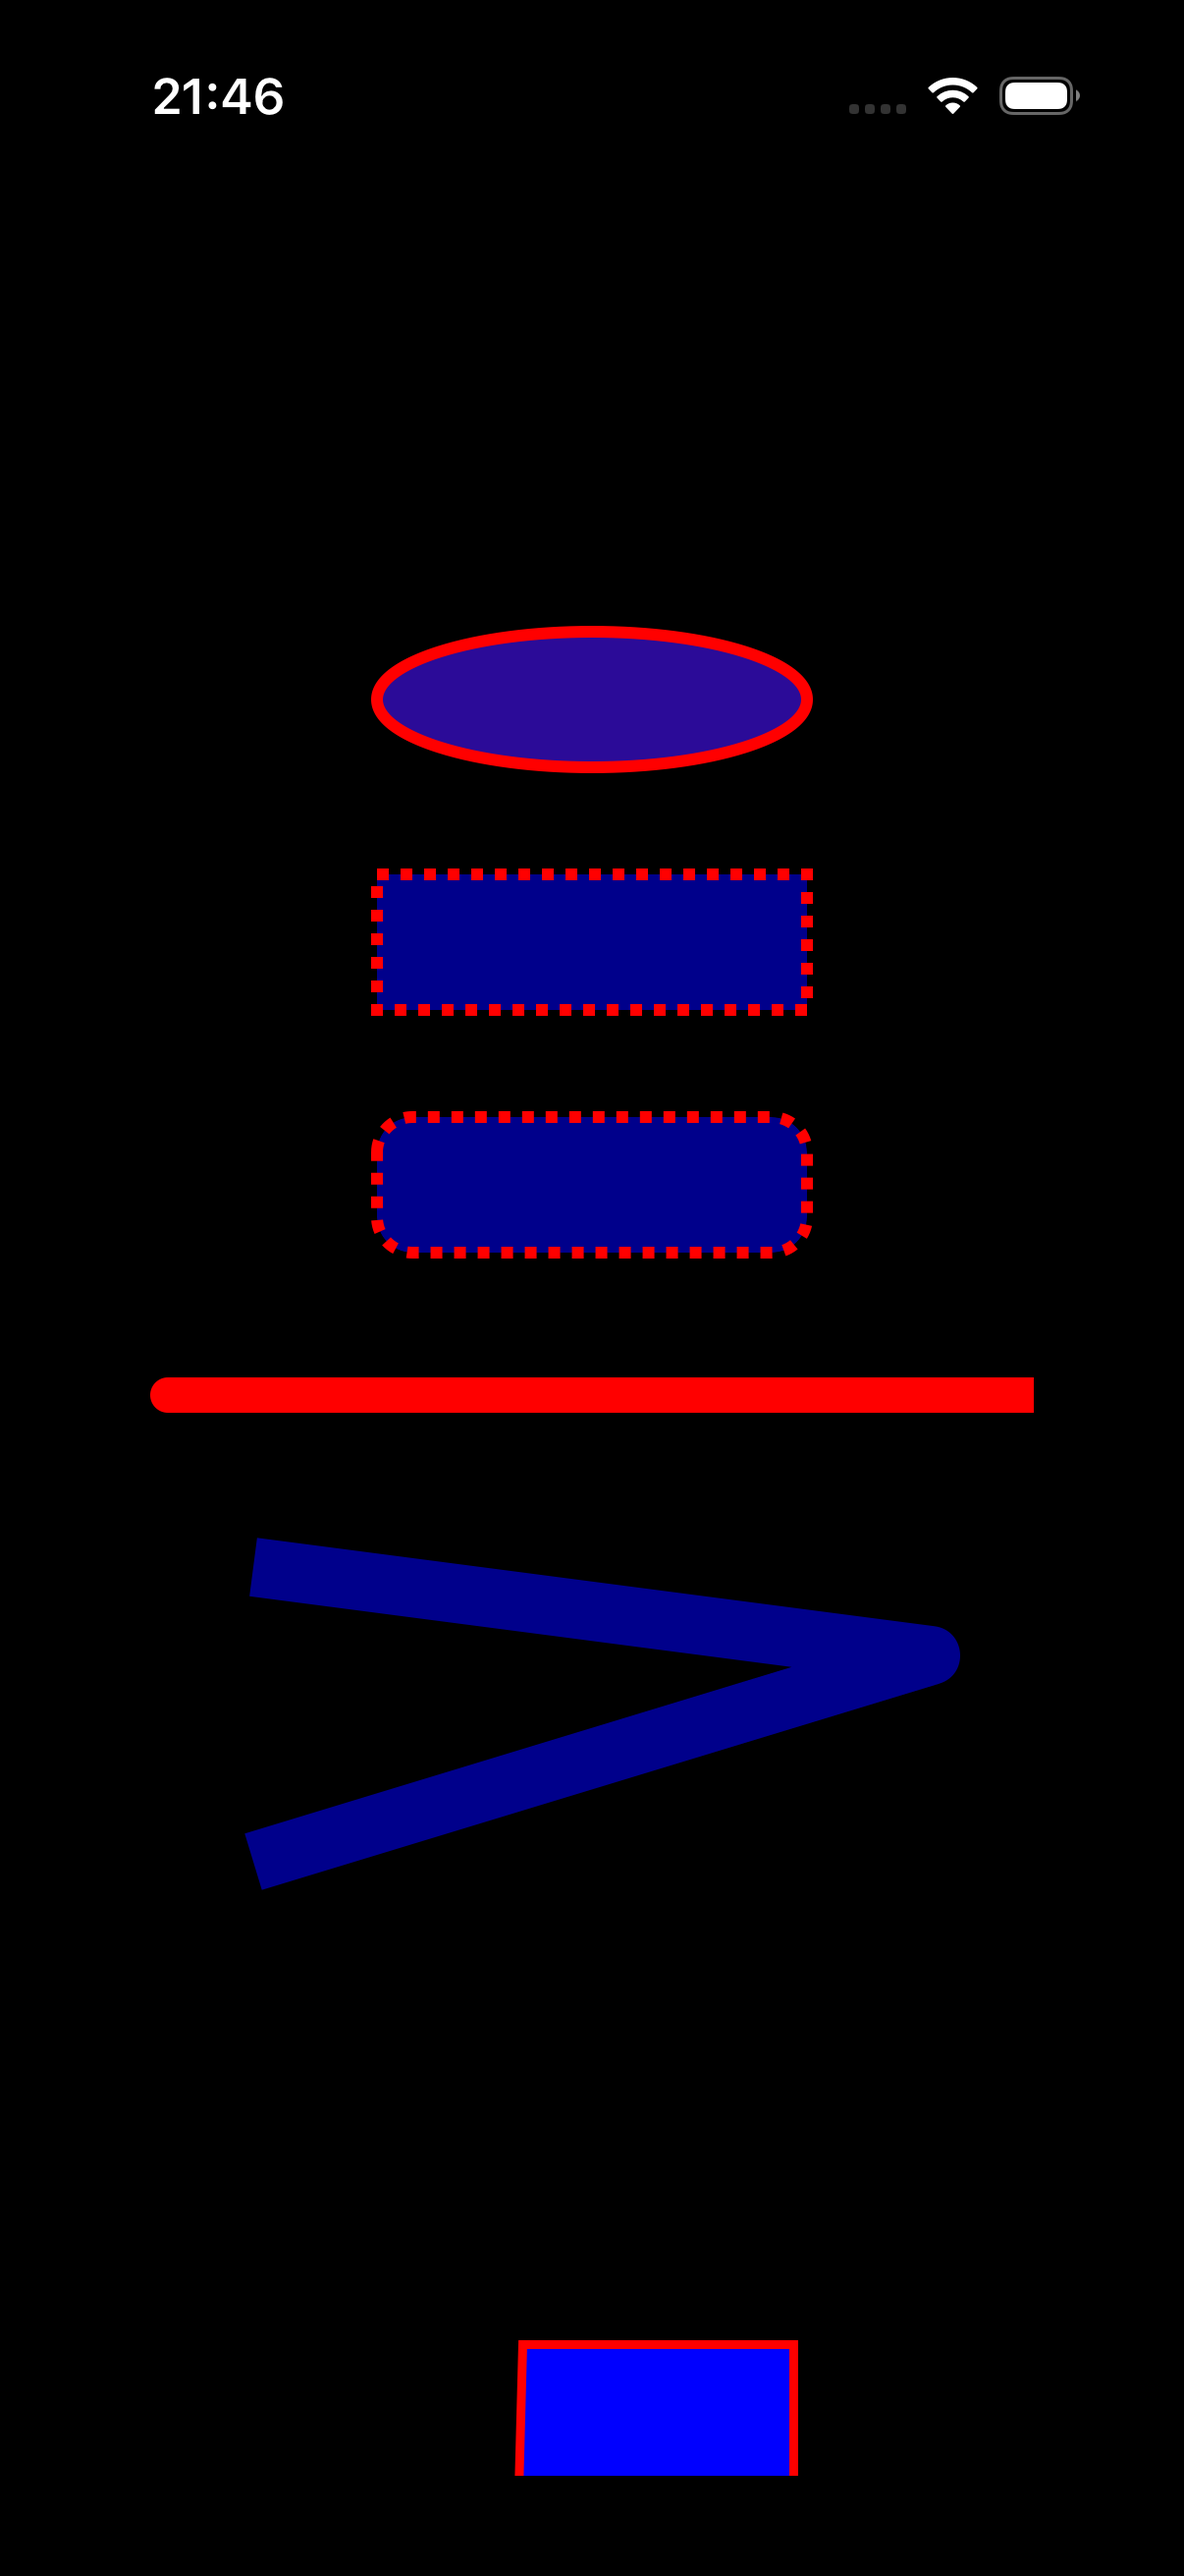
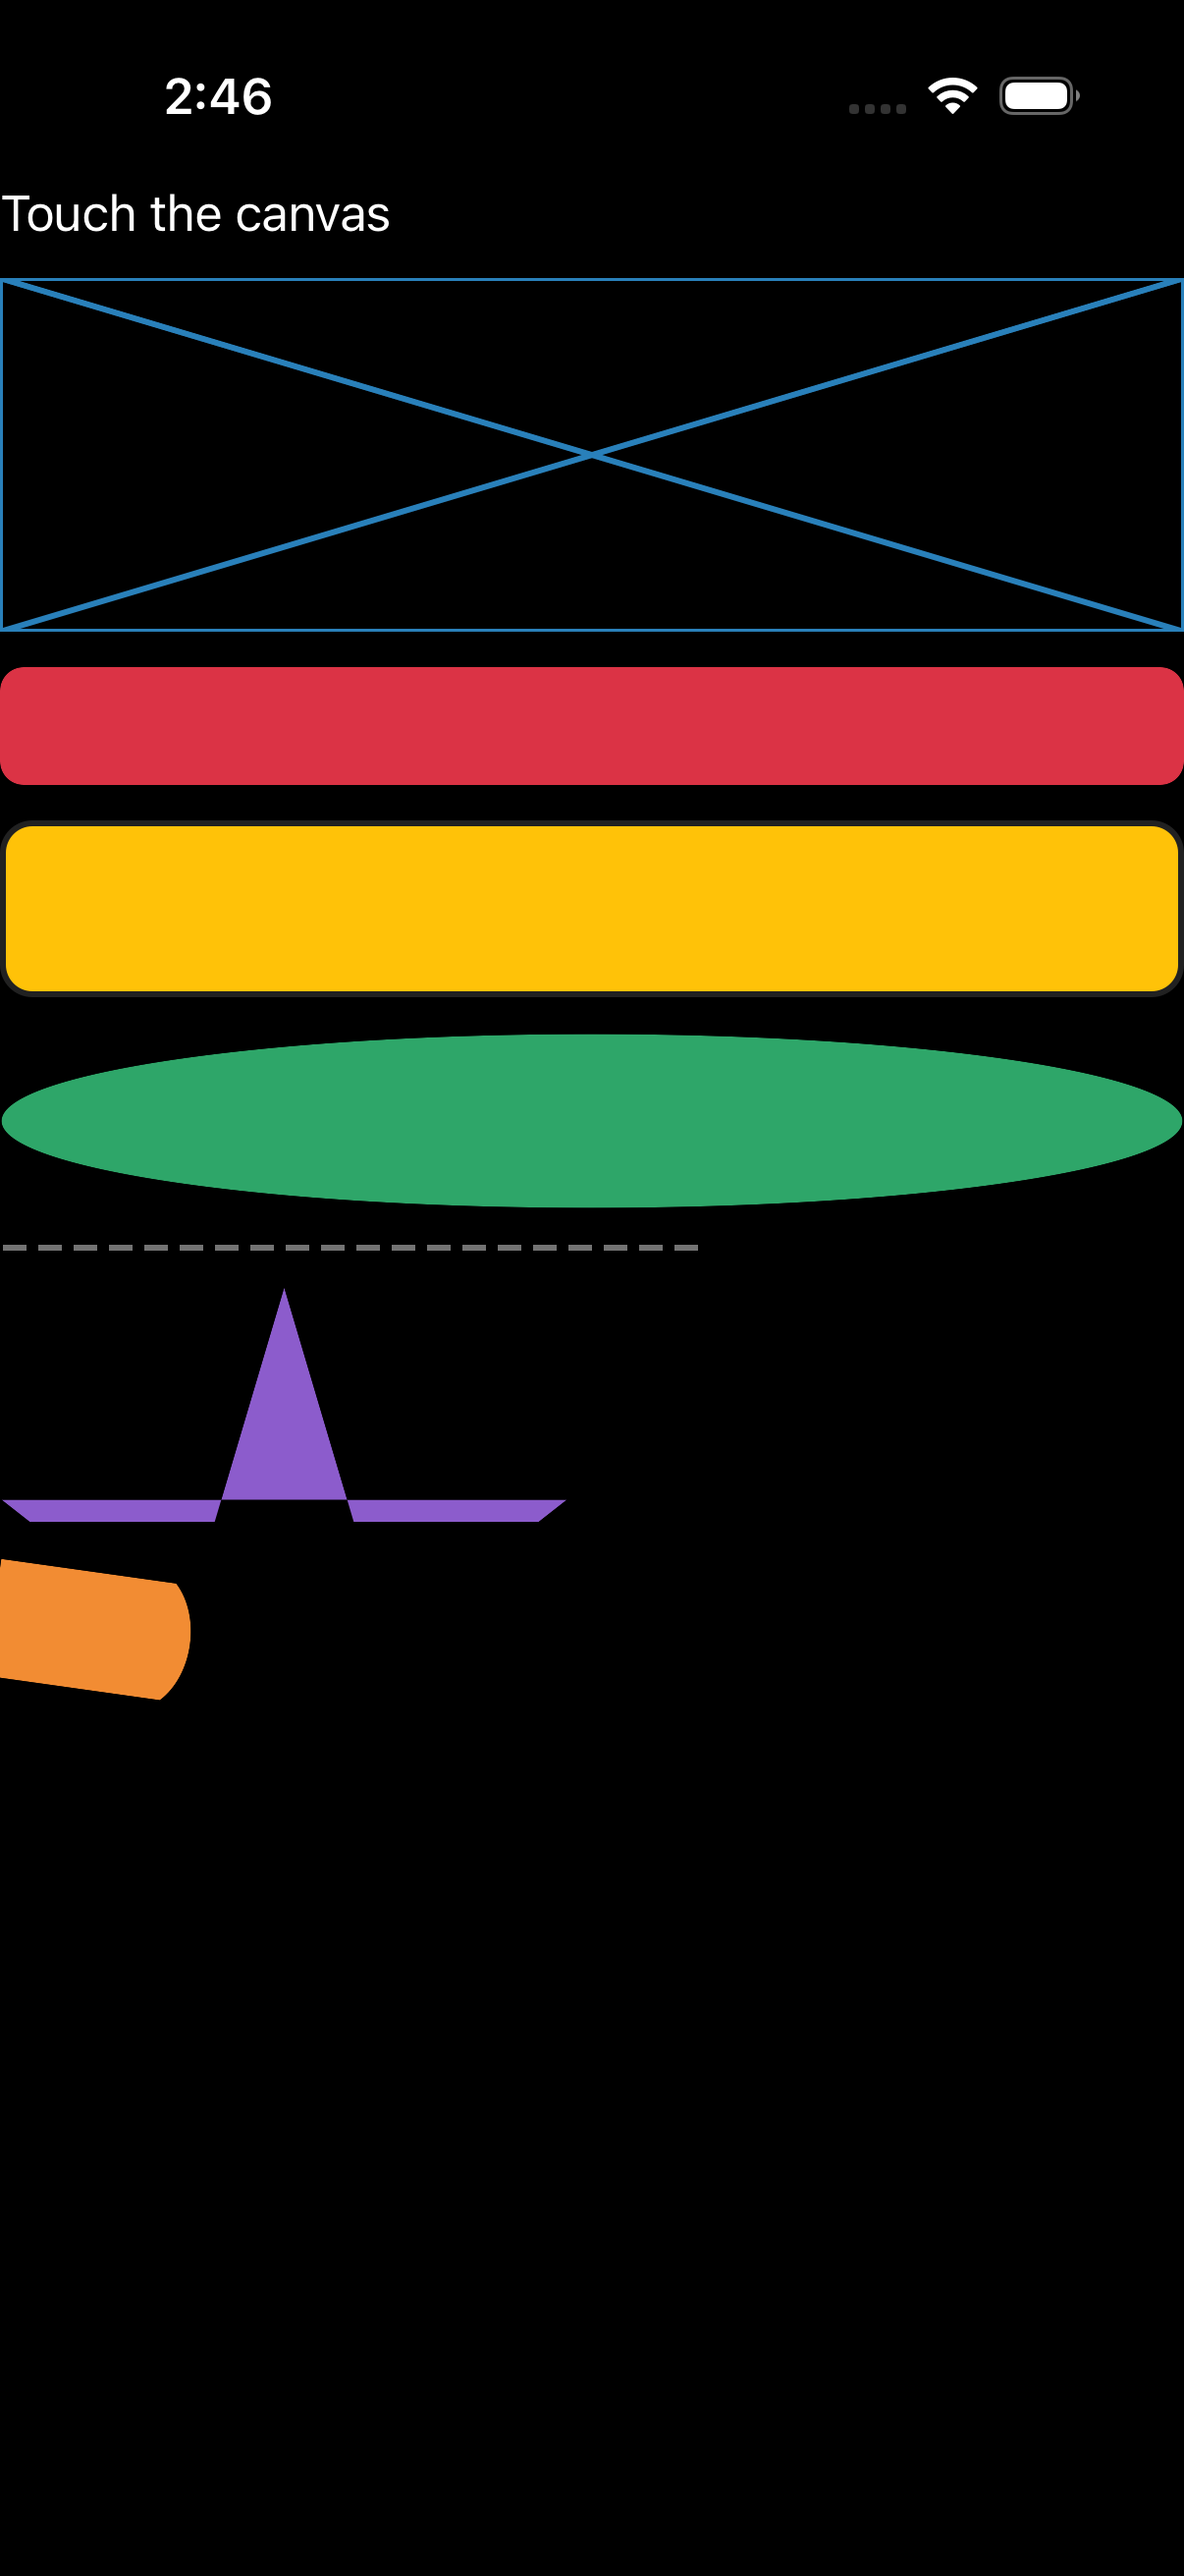
docs(parity): #41 shapes — minor (demo divergence)
Both apps render shapes with different demo content: the C++ shapes_page
shows its own showcase (touch-canvas heading + outlined rect w/diagonals,
red/yellow rounded bars, green ellipse, dashed line, purple polygon,
orange rotated rect) — all shape types render correctly (fill/stroke/
dash/rotation), heading theme-aware. The maui-compare reference uses a
labeled Ellipse/RoundRectangle/Polygon/Line set. Tracker -> minor L/D.

diff --git a/port/cpp/docs/comparison/README.md b/port/cpp/docs/comparison/README.md
@@ -2,7 +2,7 @@
 
 Theme-matched iOS comparison: each page rendered by **real .NET MAUI** vs the **C++ port**, on the same iPhone 17 simulator, compared **light-vs-light** and **dark-vs-dark**. Both stacks render native-default controls + the system font (the C# app's `dotnet new maui` default `Styles.xaml` + OpenSans are stripped; appearance forced via `MAUI_THEME` / `MAUI_APPEARANCE`). Goal: pixel-perfect parity, fixed example-by-example.
 
-**Progress: 0 / 172 🟢 matched** · 37 🟡 minor · 46 🔴 diff · 89 ⬜ pending
+**Progress: 0 / 172 🟢 matched** · 38 🟡 minor · 45 🔴 diff · 89 ⬜ pending
 
 Status legend: 🟢 pixel-match (both themes) · 🟡 minor diff · 🔴 notable diff to fix · ⬜ not yet reviewed. Per-theme verdicts in `parity_status.json`.
 
@@ -52,7 +52,7 @@ Rows are in **fix order** (top → bottom): foundational single controls first (
 | 38 | Layout alignment (Start/Center/End/Fill) | 🟡<br>L:minor<br>D:minor | ![](csharp_ios_light/alignment.png) | ![](cpp_ios_light/alignment.png) | ![](csharp_ios_dark/alignment.png) | ![](cpp_ios_dark/alignment.png) |
 | 39 | Z Index | 🟡<br>L:minor<br>D:minor | ![](csharp_ios_light/z_index.png) | ![](cpp_ios_light/z_index.png) | ![](csharp_ios_dark/z_index.png) | ![](cpp_ios_dark/z_index.png) |
 | 40 | Layout Is Enabled | 🔴<br>L:diff<br>D:diff | ![](csharp_ios_light/layout_is_enabled.png) | ![](cpp_ios_light/layout_is_enabled.png) | ![](csharp_ios_dark/layout_is_enabled.png) | ![](cpp_ios_dark/layout_is_enabled.png) |
-| 41 | Shapes | 🔴<br>L:diff<br>D:diff | ![](csharp_ios_light/shapes.png) | ![](cpp_ios_light/shapes.png) | ![](csharp_ios_dark/shapes.png) | ![](cpp_ios_dark/shapes.png) |
+| 41 | Shapes | 🟡<br>L:minor<br>D:minor | ![](csharp_ios_light/shapes.png) | ![](cpp_ios_light/shapes.png) | ![](csharp_ios_dark/shapes.png) | ![](cpp_ios_dark/shapes.png) |
 | 42 | Ellipse Gallery | 🔴<br>L:diff<br>D:diff | ![](csharp_ios_light/ellipse_gallery.png) | ![](cpp_ios_light/ellipse_gallery.png) | ![](csharp_ios_dark/ellipse_gallery.png) | ![](cpp_ios_dark/ellipse_gallery.png) |
 | 43 | Rectangle Gallery | ⬜<br>L:pending<br>D:pending | ![](csharp_ios_light/rectangle_gallery.png) | ![](cpp_ios_light/rectangle_gallery.png) | ![](csharp_ios_dark/rectangle_gallery.png) | ![](cpp_ios_dark/rectangle_gallery.png) |
 | 44 | Line Gallery | ⬜<br>L:pending<br>D:pending | ![](csharp_ios_light/line_gallery.png) | ![](cpp_ios_light/line_gallery.png) | ![](csharp_ios_dark/line_gallery.png) | ![](cpp_ios_dark/line_gallery.png) |
